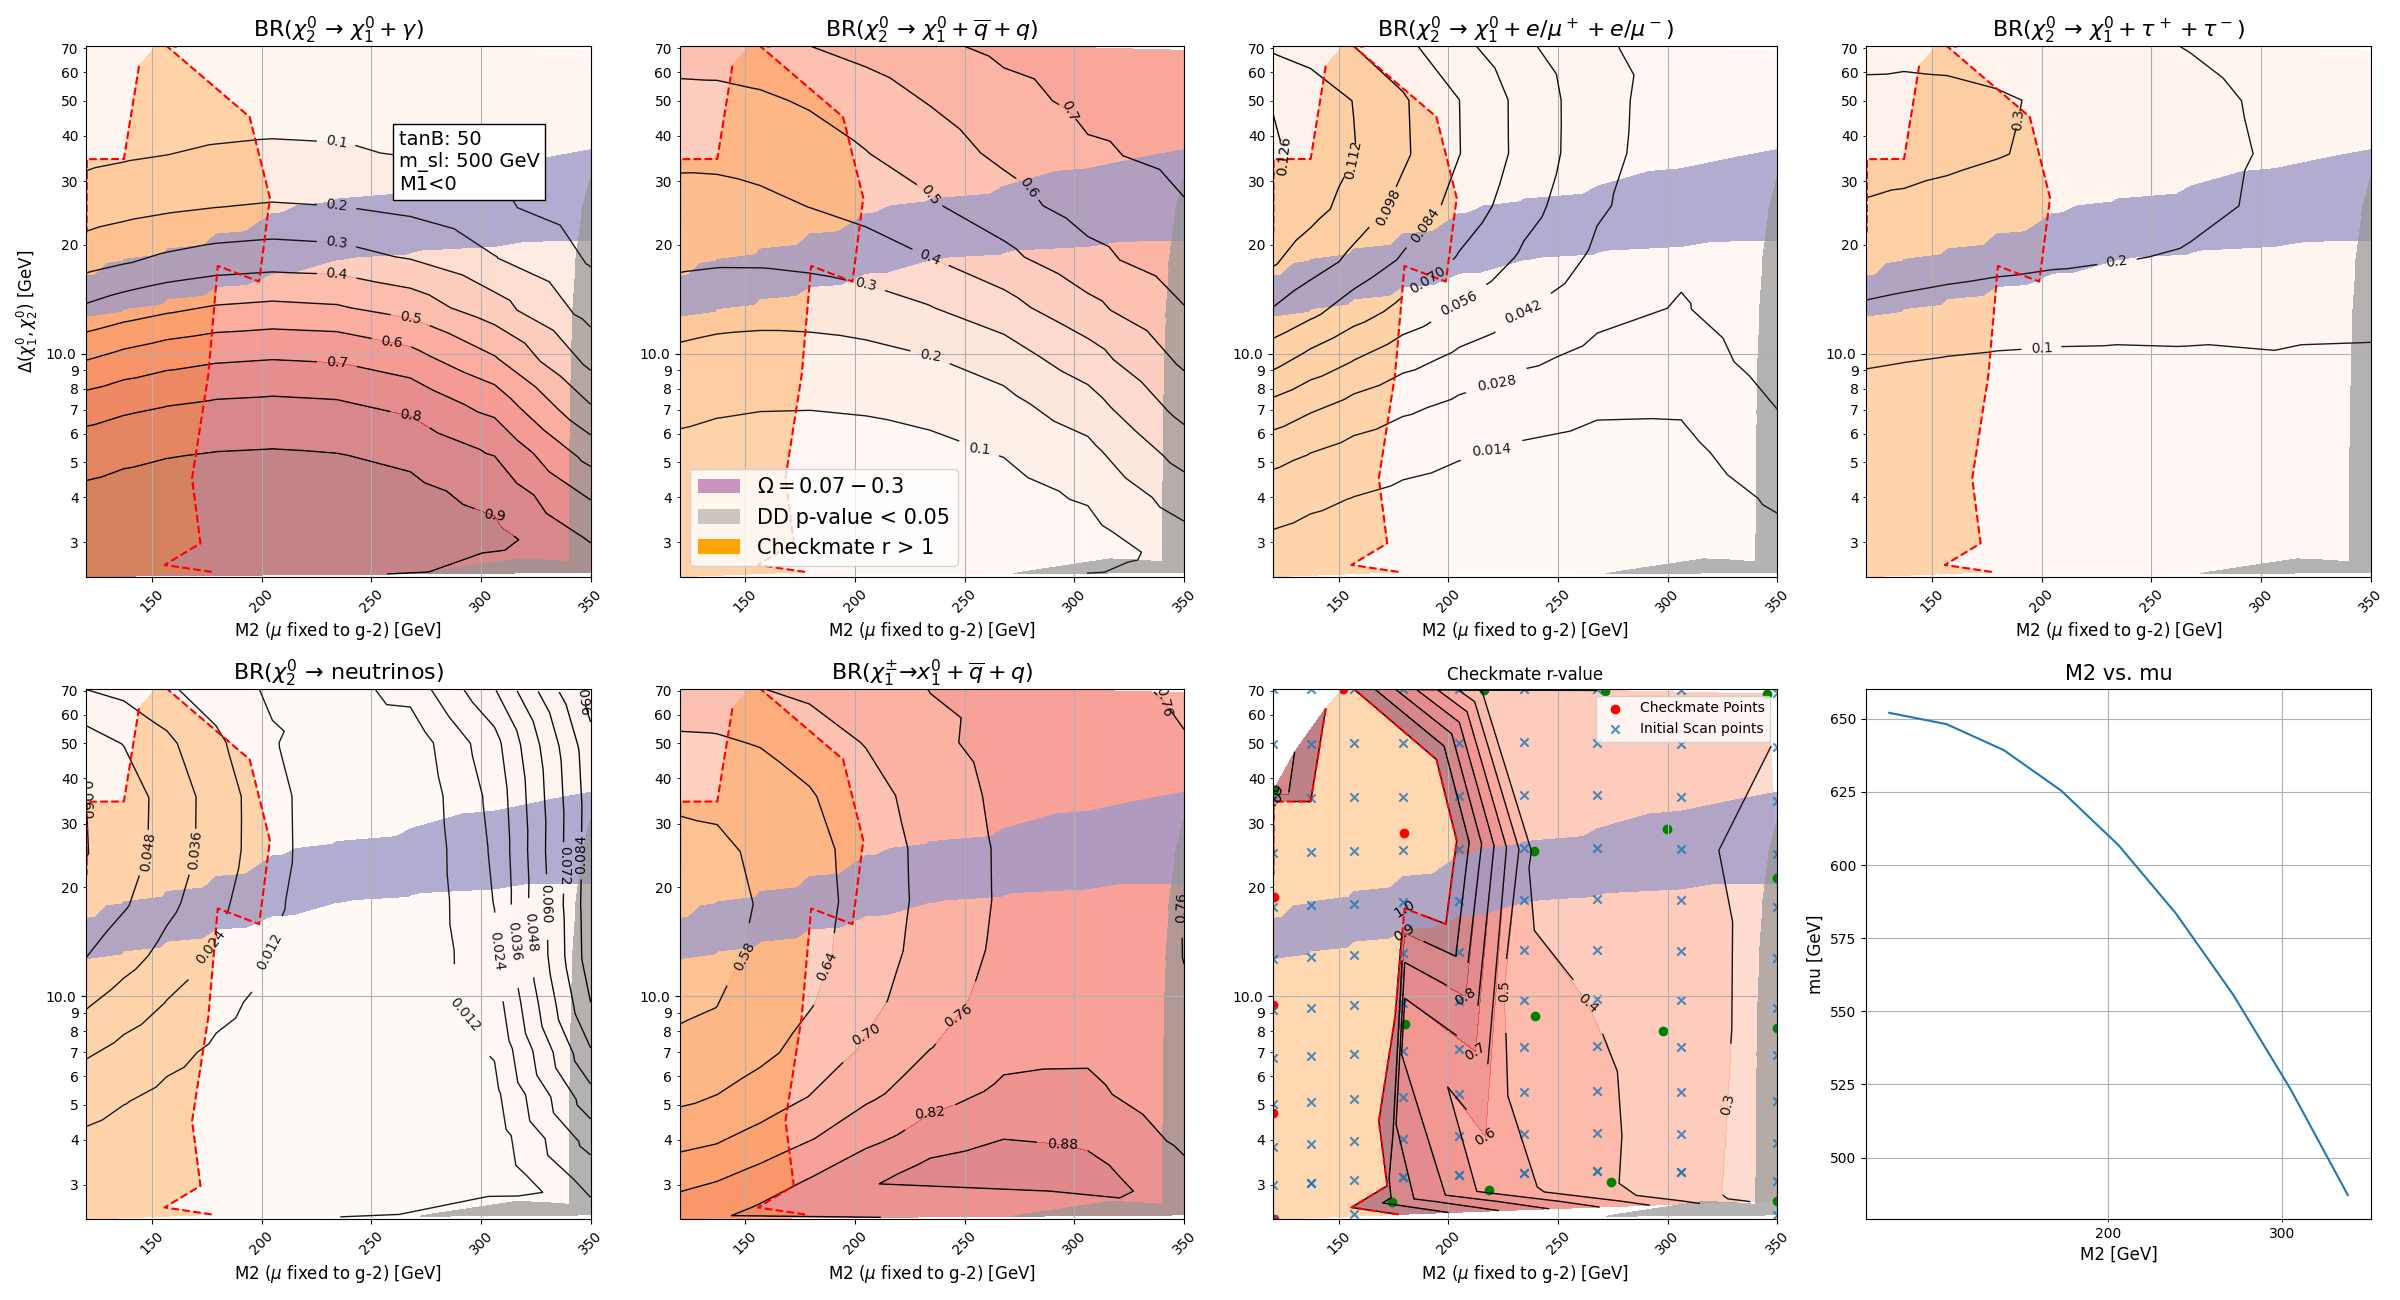
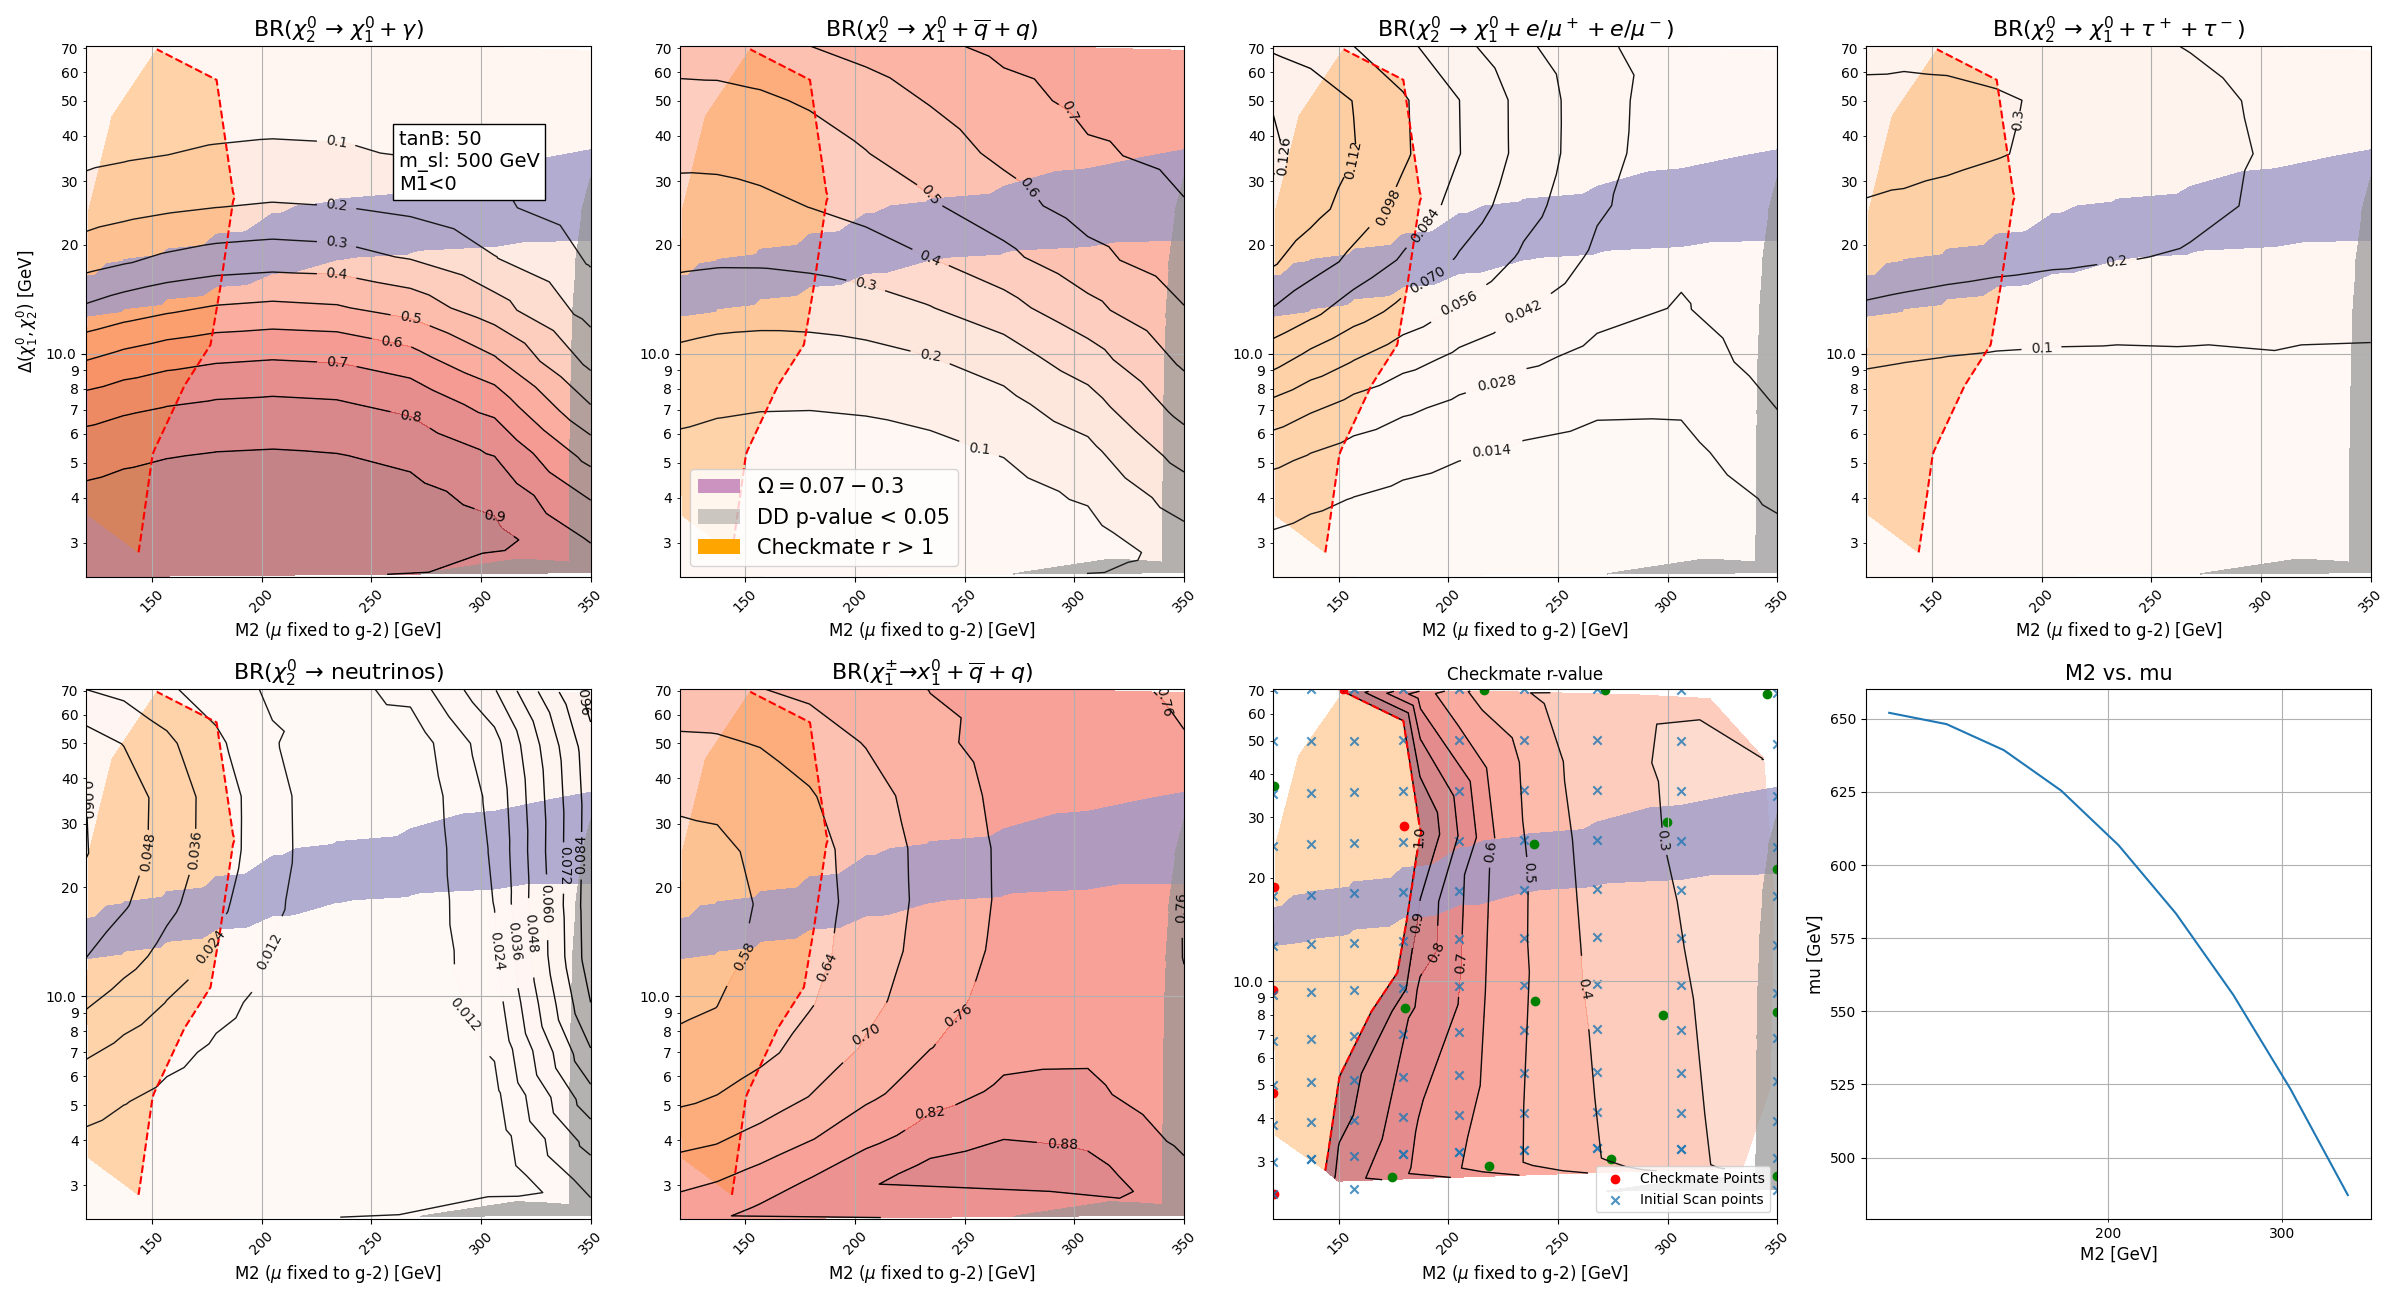
Updated Plots 	modified:   50_500_-1/CheckmateM2Scan_tanB_50_mSl_500.png 	modified:   plotCheckmate.py

diff --git a/plotCheckmate.py b/plotCheckmate.py
@@ -17,7 +17,7 @@ direc = args["scan_dir"]
 
 print("Plotting Checkmate results in %s" % direc)
 
-if "checkmate_complete.json" not in os.listdir("."):
+if "checkmate_complete.json" not in os.listdir(direc):
     with open("%s/checkmate_points.json" % direc, "r") as f:
         data = json.load(f)
 
@@ -55,7 +55,7 @@ with open("%s/scan_points.json" % direc, "r") as f:
     scan_data = json.load(f)
 
 show_plot = True
-smooth_checkmate = False
+smooth_checkmate = True
 
 tanB = cm_data["tanB"]
 m_sleptons = cm_data["m_sleptons"]
